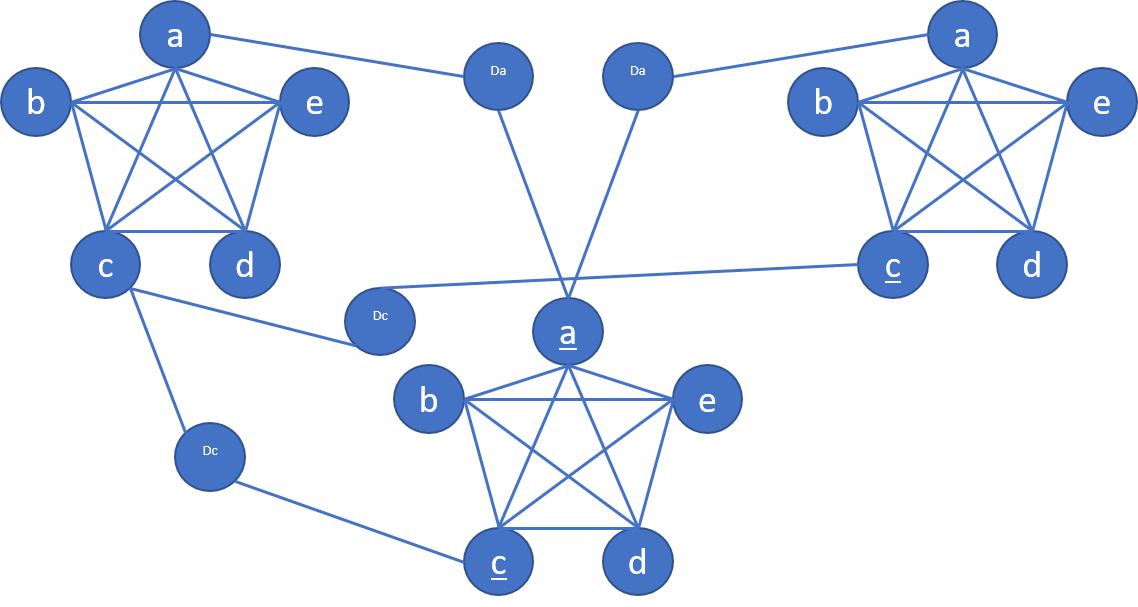
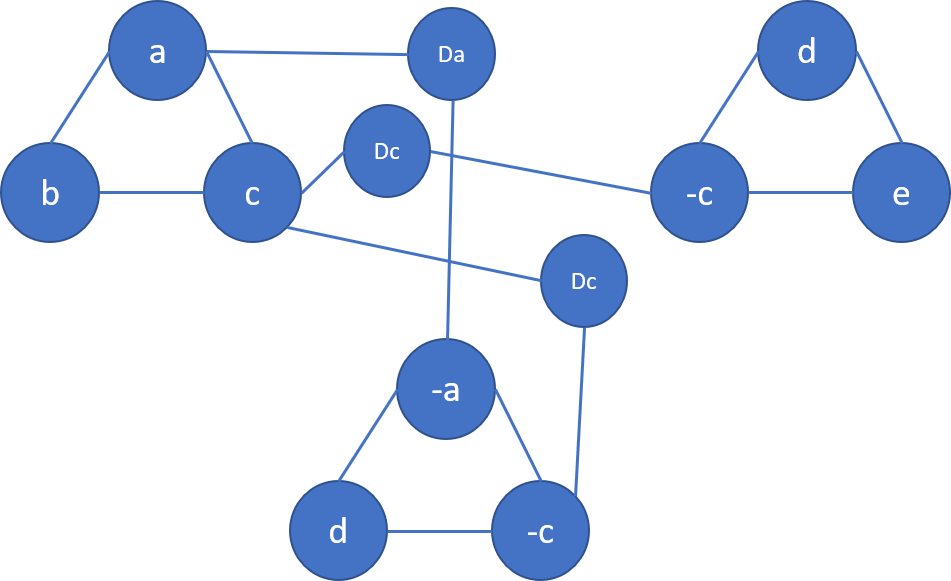
1 changed. using 3SAT

diff --git a/hw3/1.tex b/hw3/1.tex
@@ -1,6 +1,5 @@
 \input{hw3.tex}
 \newtheorem{theorem}{Theorem}
-%\theoremstyle{definition}
 \newtheorem{lemma}[theorem]{Lemma}
 \newtheorem{definition}{Definition}[section]
 
@@ -11,8 +10,7 @@
 
 \newcommand{\RIS}{\textsc{ReallyIndependentSet}}
 \newcommand{\NPC}{\mathsf{NP}\texttt{-complete}}
-\newcommand{\fSAT}{\mathsf{5}\texttt{-SAT}}
-\newcommand{\tSAT}{\mathsf{3}\texttt{-SAT}}
+\newcommand{\tSAT}{\mathsf{3}\texttt{3-SAT}}
 
 \section{Really independent sets}
     \begin{quote}
@@ -22,8 +20,7 @@
     Prove that \textsc{ReallyIndependentSet} is $\NP$-complete.
     \end{quote}
 
-We would be proofing $\RIS \in \NPC$ by reducing 5-SAT to it. 
-We would consider $\tSAT \le_P \fSAT$ to be trivial, and since $\tSAT \in \NPC$, in the end we would have $\RIS \in \NPC$.
+We would be proofing $\RIS \in \NPC$ by reducing $\tSAT$ to it. 
 
 \begin{theorem}
     $\RIS \in \NP $
@@ -36,15 +33,14 @@ We would consider $\tSAT \le_P \fSAT$ to be trivial, and since $\tSAT \in \NPC$,
     P.S. It's trivial that if a $\RIS$ of size $k+1$ exists, a $\RIS$ of size $k$ must exist, thus we don't enumerate combinations with size larger than $k$.
 \end{proof}
 
-\theoremstyle{definition}
 \begin{definition}{Reduction}
-    Suppose we are given a $\fSAT$ problem with $k$ clauses. In each clause there are five variables: $a$, $b$, $c$, $d$, $e$.
+    Suppose we are given a $\tSAT$ problem with $k$ clauses. In each clause there are five variables: $a$, $b$, $c$, $d$, $e$.
 
-    For each clause we construct a 5-clique. With each node labelled itself or it's negation depends on the clause.
-    Now we have $k$ 5-cliques, find all negation pairs(i.e. nodes labelled with $a$ and $-a$), add a dummy node $D$ and connect $D$ with both nodes.
+    For each clause we construct a 3-clique. With each node labelled itself or it's negation depends on the clause.
+    Now we have $k$ 3-cliques, find all negation pairs(i.e. nodes labelled with $a$ and $-a$), add a dummy node $D$ and connect $D$ with both nodes.
 \end{definition}
 
-\textbf{Example} The follow image shows how a $\fSAT$ $F = (a \vee b \vee c \vee d \vee e) \wedge (a \vee b \vee -c \vee d \vee e) \wedge (-a \vee b \vee -c \vee d \vee e)$ is converted into a graph.
+\textbf{Example} The follow image shows how a $\tSAT$ $F = (a \vee b \vee c) \wedge (-c \vee d \vee e) \wedge (-a\vee -c \vee d)$ is converted into a graph.
 
 \includegraphics[width = \textwidth]{Ex1.png}
 
@@ -56,13 +52,13 @@ Meanwhile we have to set the distance to 2 instead of 1 or we might have differe
 \end{theorem}
 
 \begin{proof}
-    For $k$ 5-cliques, the total time required is linear to $k$, therefore $O(k)$.
+    For $k$ 3-cliques, the total time required is linear to $k$, therefore $O(k)$.
 
-    For each variable, suppose out of $k$ clauses, $t$ of them are negated, then we would add $t(k-t) = O(k^2)$ nodes since each non-negation and negation pair has to be connected.
+    For each variable, suppose out of $k$ clauses, there are only $s$ of them and $t$ of them are negated, then we would add $t(s-t) \leq O(k^2)$ nodes since $s \leq k$, $t \leq k$. 
+    There are at most $3k$ different variables, so the maximum complexity is $O(k^3)$.
 
-    Therefore the total time for this reduction would be $O(k^2)$
+    Therefore the total time for this reduction would be $O(k^3)$.
 \end{proof}
-
 
 \begin{lemma}
     If such reduced graph has $\RIS$ of size $k$, there will be no dummy node $D$ in $\RIS$
@@ -72,21 +68,21 @@ Meanwhile we have to set the distance to 2 instead of 1 or we might have differe
     \textit{Note}: This lemma comes handy when proving $\Leftarrow$ direction in the next proof. 
 
     Suppose there is dummy node $D$. 
-    Then the two 5-clique connected by $D$ will have a distance to $D$ less equal than 2. 
-    Then the $\RIS$ of this graph is at most $k-1$ since there are only $k$ 5-fliques.
+    Then the two 3-clique connected by $D$ will have a distance to $D$ less equal than 2. 
+    Then the $\RIS$ of this graph is at most $k-1$ since there are only $k$ 3-cliques.
 
     Therefore, dummy node $D$ cannot be selected into $\RIS$ is there is one.
 \end{proof}
 
 \begin{theorem}
-    $\fSAT$ is satisfiable iff the reduced graph has $\RIS$.
+    $\tSAT$ is satisfiable iff the reduced graph has $\RIS$.
 \end{theorem}
 
 \begin{proof}
     $\Rightarrow$
     
-    Suppose we have a set of solutions to $\fSAT$, then for each clause there must be at least one node evaluates to true.
-    In each clique, we randomly select ONE such true node. The set of all nodes selcted from each 5-clique would be $\RIS$.
+    Suppose we have a set of solutions to $\tSAT$, then for each clause there must be at least one node evaluates to true.
+    In each clique, we randomly select ONE such true node. The set of all nodes selcted from each 3-clique would be $\RIS$.
 
     It is easy to see that all pairs of selected nodes must have a distance larger than 2: The connection between two clique take distance of 2 and the directly connected nodes cannot be picked at the same time as they are the negation of each other.
 
@@ -94,18 +90,18 @@ Meanwhile we have to set the distance to 2 instead of 1 or we might have differe
 
     $\Leftarrow$
 
-    Since dummy node $D$ cannot be selected as we have proved in the lemma above, in each 5-clique the distance between all nodes is 1. 
+    Since dummy node $D$ cannot be selected as we have proved in the lemma above, in each 3-clique the distance between all nodes is 1. 
     Then the only possible way to form a $\RIS$ is by selecting one node in each clique.
-    We claim that the selected nodes, when setting corresponding variable to true, $\fSAT$ will be solved.
+    We claim that the selected nodes, when setting corresponding variable to true, $\tSAT$ will be solved.
 
     First let's proof that the selected nodes are not conflicting, i.e. $a$ and $-a$ cannot be selected at the same time.
     Per the definition of $\RIS$, this is trivial as any negation nodes have distance of 2.
 
-    Then let's proof that the selected nodes do solve $\fSAT$.
-    In each 5-clique one node is selected to be true, and therefore corresponding clause is true. 
-    Since all 5-clique got one node selected, all clauses are true.
+    Then let's proof that the selected nodes do solve $\tSAT$.
+    In each 3-clique one node is selected to be true, and therefore corresponding clause is true. 
+    Since all 3-clique got one node selected, all clauses are true.
 \end{proof}
 
-Therefore, we have proved  that $\fSAT \le_P \RIS$, and thus, $$\RIS \in \NPC$$
+Therefore, we have proved  that $\tSAT \le_P \RIS$, and thus, $$\RIS \in \NPC$$
 
 \end{document}
